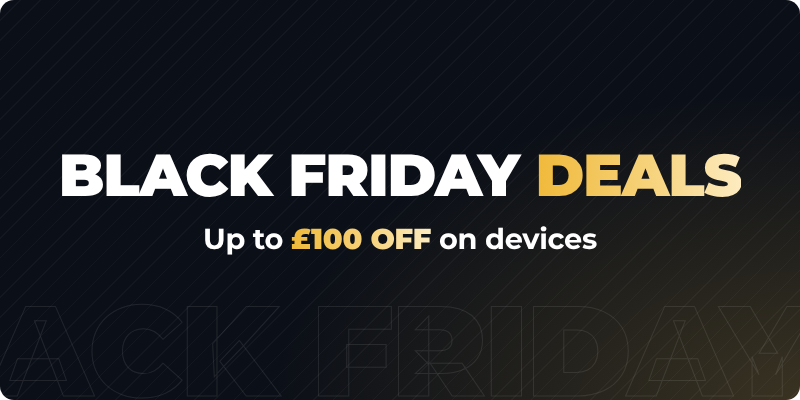
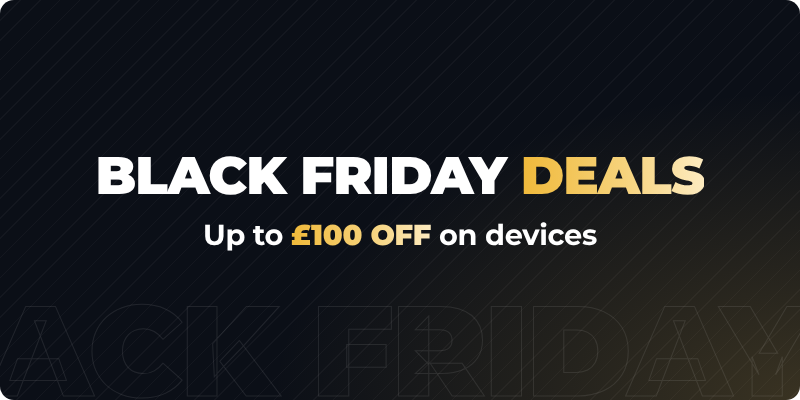
Deals box: slightly smaller heading for wider side margins
Claude-Session: https://claude.ai/code/session_012wEFYQDrrxgWottX9NzEPQ

Changed region(s): [[0.0625, 0.36, 0.9375, 0.51], [0.25, 0.54, 0.75, 0.63], [0.25, 0.54, 0.2812, 0.57]]

diff --git a/output/banners/black-friday-deals-2x1.html b/output/banners/black-friday-deals-2x1.html
@@ -1,5 +1,5 @@
 <!-- CrC Black Friday deals box, 2:1 ratio, fluid width. Paste as one Custom HTML block (block editor) or into the TEXT tab (classic). Fills the width of whatever it sits in and keeps a 2:1 shape; "BLACK FRIDAY DEALS" centred, "Up to £100 OFF on devices" underneath. Same box, colours and fonts as the product short-description banner. -->
 <!-- wp:html -->
-<style>.crc-bfd{font-family:'Montserrat',system-ui,-apple-system,sans-serif;color:#fff;text-align:center;width:100%;box-sizing:border-box;container-type:inline-size}.crc-bfd .crc-bf{position:relative;overflow:hidden;margin:0;aspect-ratio:2/1;display:flex;align-items:center;justify-content:center;padding:clamp(14px,4cqw,32px);border-radius:14px;box-sizing:border-box;background:radial-gradient(120% 140% at 100% 100%,rgba(242,193,78,.20) 0,rgba(242,193,78,0) 55%),repeating-linear-gradient(135deg,rgba(255,255,255,.035) 0 1px,transparent 1px 14px),#0b0f17;color:#fff}.crc-bfd .crc-bf-wm{position:absolute;right:-10px;bottom:-14px;margin:0;font-size:clamp(40px,16cqw,140px);font-weight:900;line-height:1;letter-spacing:-.02em;white-space:nowrap;color:transparent!important;-webkit-text-stroke:1px rgba(255,255,255,.09);pointer-events:none;user-select:none}.crc-bfd .crc-bf-in{position:relative;z-index:1}.crc-bfd .crc-bf-h{margin:0;font-size:clamp(20px,7.4cqw,70px);font-weight:900;line-height:1.02;letter-spacing:-.02em;text-transform:uppercase;color:#fff!important;white-space:nowrap}.crc-bfd .crc-bf-gold{color:#f2c14e;background:linear-gradient(90deg,#f0b93a 0%,#f6d27a 55%,#fdebc0 100%);-webkit-background-clip:text;background-clip:text;-webkit-text-fill-color:transparent}.crc-bfd .crc-bf-offer{margin:clamp(6px,2cqw,18px) 0 0;font-size:clamp(13px,3.6cqw,34px);font-weight:700;line-height:1.15;letter-spacing:-.01em}.crc-bfd .crc-bf-offer strong{font-weight:900}</style>
+<style>.crc-bfd{font-family:'Montserrat',system-ui,-apple-system,sans-serif;color:#fff;text-align:center;width:100%;box-sizing:border-box;container-type:inline-size}.crc-bfd .crc-bf{position:relative;overflow:hidden;margin:0;aspect-ratio:2/1;display:flex;align-items:center;justify-content:center;padding:clamp(14px,4cqw,32px);border-radius:14px;box-sizing:border-box;background:radial-gradient(120% 140% at 100% 100%,rgba(242,193,78,.20) 0,rgba(242,193,78,0) 55%),repeating-linear-gradient(135deg,rgba(255,255,255,.035) 0 1px,transparent 1px 14px),#0b0f17;color:#fff}.crc-bfd .crc-bf-wm{position:absolute;right:-10px;bottom:-14px;margin:0;font-size:clamp(40px,16cqw,140px);font-weight:900;line-height:1;letter-spacing:-.02em;white-space:nowrap;color:transparent!important;-webkit-text-stroke:1px rgba(255,255,255,.09);pointer-events:none;user-select:none}.crc-bfd .crc-bf-in{position:relative;z-index:1}.crc-bfd .crc-bf-h{margin:0;font-size:clamp(18px,6.6cqw,62px);font-weight:900;line-height:1.02;letter-spacing:-.02em;text-transform:uppercase;color:#fff!important;white-space:nowrap}.crc-bfd .crc-bf-gold{color:#f2c14e;background:linear-gradient(90deg,#f0b93a 0%,#f6d27a 55%,#fdebc0 100%);-webkit-background-clip:text;background-clip:text;-webkit-text-fill-color:transparent}.crc-bfd .crc-bf-offer{margin:clamp(6px,2cqw,18px) 0 0;font-size:clamp(13px,3.6cqw,34px);font-weight:700;line-height:1.15;letter-spacing:-.01em}.crc-bfd .crc-bf-offer strong{font-weight:900}</style>
 <div class="crc-bfd"><div class="crc-bf" role="note" aria-label="Black Friday deals: up to £100 off on devices"><span class="crc-bf-wm" aria-hidden="true">BLACK FRIDAY</span><div class="crc-bf-in"><div class="crc-bf-h">Black Friday <span class="crc-bf-gold">Deals</span></div><p class="crc-bf-offer">Up to <strong class="crc-bf-gold">£100 OFF</strong> on devices</p></div></div></div>
 <!-- /wp:html -->
